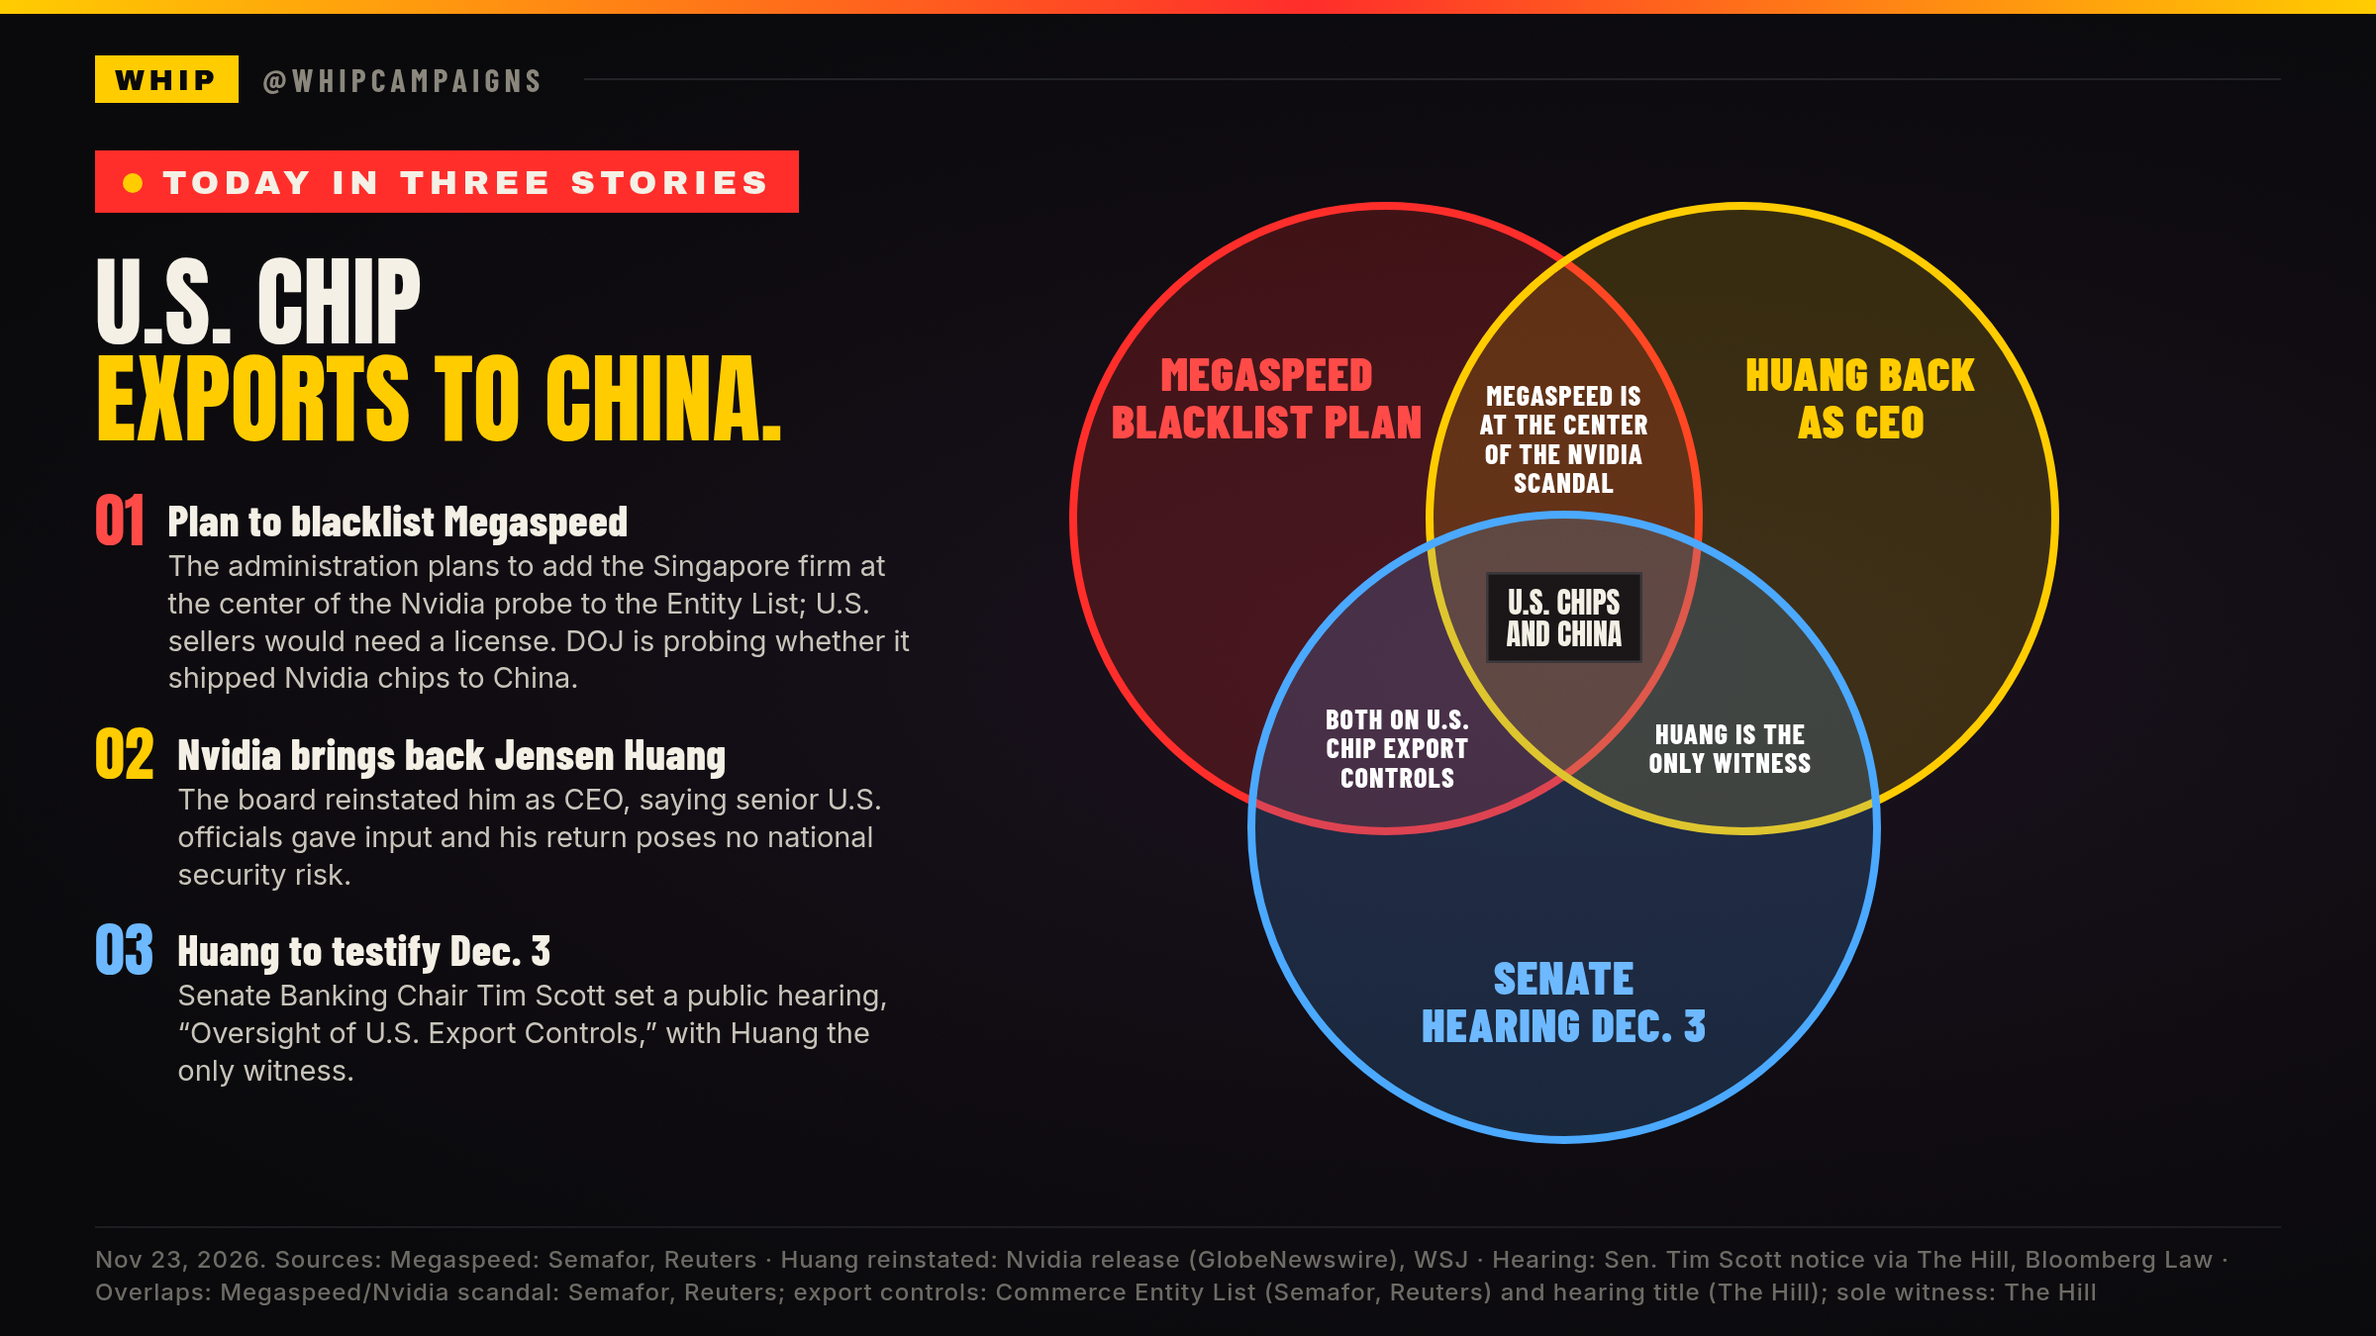
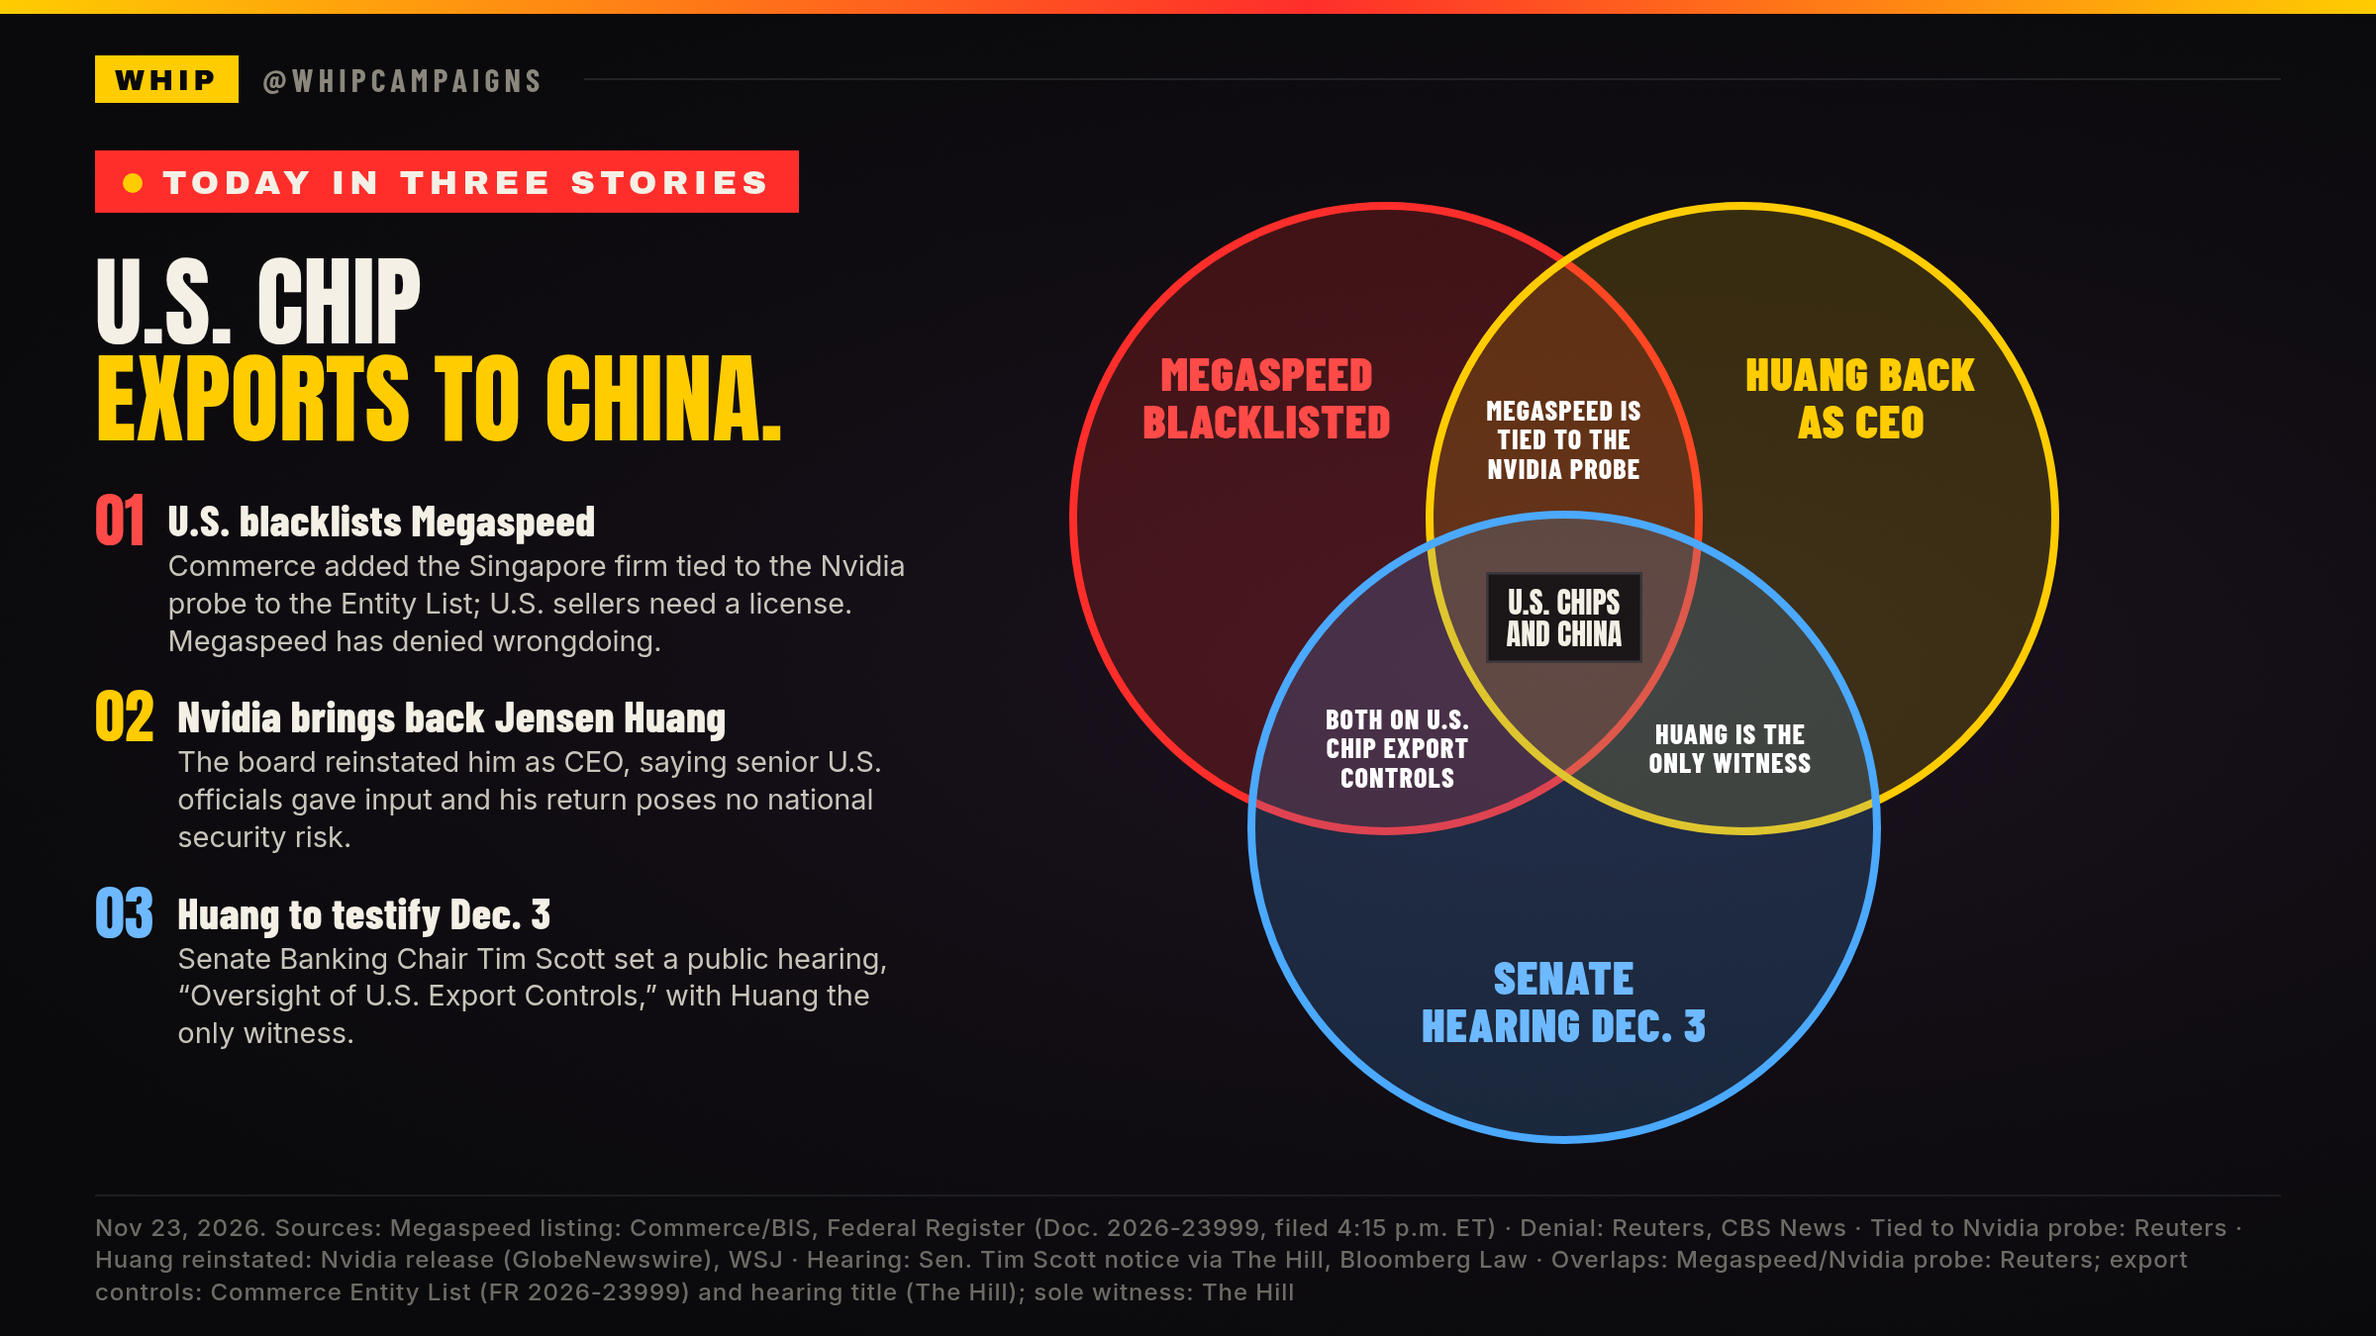
Update Nov 23 three-circle card and add Megaspeed listed follow-up
Commerce/BIS Federal Register filing 2026-23999 confirms Megaspeed was added to the Entity List this afternoon. Rebuild the daily venn in past tense and add a follow-up UPDATE card.

diff --git a/breaking/2026-11-23-megaspeed-listed/make_card.py b/breaking/2026-11-23-megaspeed-listed/make_card.py
@@ -1,0 +1,80 @@
+#!/usr/bin/env python3
+"""UPDATE card: Commerce added Megaspeed to the Entity List (Mon Nov 23, 2026).
+Primary source: BIS final rule, Federal Register public inspection Doc. 2026-23999, filed 4:15 p.m. ET.
+Denial: Reuters, CBS News. Illustration. No Whip scores. No spy allegations or Lutnick/Bessent."""
+import shutil, sys, subprocess
+from pathlib import Path
+sys.path.insert(0, "/home/box/whip/threads/2026-11-14-faa")
+from v4base import wrap
+OUT = Path(__file__).resolve().parent
+NAME = "update-megaspeed-listed"
+FOLDER = "breaking/2026-11-23-megaspeed-listed"
+W = 568
+RED, YEL, BLU, INK, PAPER, MUTE = "#ff2d2a", "#ffcc00", "#3d8bff", "#09090b", "#f4f0e6", "#8a867c"
+parts = []
+parts.append(f'<text x="0" y="22" font-family="Archivo Black" font-size="14" letter-spacing="1.6" fill="{PAPER}">THE NVIDIA PROBE · ONE DAY</text>')
+parts.append(f'<text x="0" y="44" font-family="Inter" font-size="13" font-weight="600" fill="{MUTE}">Per Commerce/BIS, Federal Register, Reuters, Nvidia and Sen. Tim Scott</text>')
+rows = [("NOV 23", "Huang reinstated", "Unanimous board vote (Nvidia)", BLU),
+        ("NOV 23", "Megaspeed blacklisted", "Commerce added it to the Entity List (FR)", RED),
+        ("NOW", "License rule", "All EAR items; presumption of denial (BIS)", MUTE),
+        ("DEC 3", "Public hearing", "Senate Banking, on chip export controls (Scott)", YEL)]
+y = 62
+for d, lab, note, col in rows:
+    parts.append(f'<rect x="0" y="{y}" width="{W}" height="54" rx="4" fill="#15151b" stroke="{col}" stroke-width="{3 if col==YEL else 1.5}"/>')
+    parts.append(f'<text x="18" y="{y+38}" font-family="Anton" font-size="26" fill="{col}">{d}</text>')
+    parts.append(f'<text x="130" y="{y+23}" font-family="Archivo Black" font-size="15" letter-spacing="1.2" fill="{PAPER}">{lab.upper()}</text>')
+    parts.append(f'<text x="130" y="{y+43}" font-family="Inter" font-size="13.5" font-weight="600" fill="#c8c4ba">{note}</text>')
+    y += 62
+H = y
+graphic = f'<svg xmlns="http://www.w3.org/2000/svg" width="{W}" height="{H}" viewBox="0 0 {W} {H}">{"".join(parts)}</svg>'
+html = wrap(f"""
+<div class="footer"><span>Sources: Commerce/BIS, Federal Register (Doc. 2026-23999, filed 4:15 p.m. ET Nov. 23); Reuters; CBS News; Nvidia; Sen. Tim Scott. Whip illustration.</span><span>Whip illustration</span></div>
+<div class="tag"><span class="dot"></span>UPDATE &middot; AI CHIPS</div>
+<div class="left">
+  <div class="h1">MEGASPEED<br><span class="y">BLACKLISTED</span></div>
+  <div class="h2">COMMERCE ADDS THE FIRM<br>TIED TO THE NVIDIA PROBE</div>
+  <div class="att">A Federal Register filing posted this afternoon adds the Singapore firm to the Entity List. Megaspeed has denied wrongdoing.</div>
+</div>
+<div class="panel">
+  <div class="ph">THE TIMELINE &middot; WHIP ILLUSTRATION</div>
+  {graphic}
+</div>
+<div class="strip">
+  <div class="wt">WHAT THIS<br><span class="y">MEANS</span></div>
+  <div class="b"><div class="n">01</div><div><b>The rule:</b> U.S. firms need a license to sell it any item subject to the EAR, under a presumption of denial.</div></div>
+  <div class="b"><div class="n">02</div><div><b>The denial:</b> Megaspeed has said it conducts lawful business. DOJ is probing chip shipments to China.</div></div>
+  <div class="b"><div class="n">03</div><div><b>Next:</b> Huang faces Senate Banking on export controls Dec. 3.</div></div>
+</div>
+""", """
+body{background:radial-gradient(ellipse at 70% 38%,#3a0d3f 0%,#200826 45%,#09090b 82%)}
+.tag{position:absolute;top:76px;left:48px;display:flex;align-items:center;gap:10px;background:#ff2d2a;color:#f4f0e6;font-family:'Archivo Black',sans-serif;font-size:18px;letter-spacing:.18em;padding:7px 14px 6px;z-index:5}
+.dot{width:10px;height:10px;border-radius:50%;background:#ffcc00;display:inline-block}
+.left{position:absolute;left:48px;top:122px;width:500px;z-index:5}
+.h1{font-family:'Anton',sans-serif;font-size:64px;line-height:.98;color:#f4f0e6;letter-spacing:.01em}
+.h2{font-family:'Anton',sans-serif;font-size:28px;line-height:1.02;color:#f4f0e6;margin-top:8px}
+.att{font-family:'Inter',sans-serif;font-size:15px;line-height:1.35;color:#c8c4ba;margin-top:10px;width:470px}
+.y{color:#ffcc00}
+.panel{position:absolute;right:48px;top:112px;width:600px;z-index:5;background:rgba(10,14,18,.88);border-top:4px solid #ffcc00;padding:12px 16px 10px}
+.ph{font-family:'Archivo Black',sans-serif;font-size:13px;letter-spacing:.16em;color:#8a867c;margin-bottom:8px}
+.panel svg{display:block}
+.strip{position:absolute;left:48px;right:48px;top:470px;height:150px;z-index:5;background:rgba(14,14,18,.94);border-top:4px solid #ffcc00;display:grid;grid-template-columns:150px 1fr 1fr 1fr;gap:20px;padding:16px 22px}
+.wt{font-family:'Anton',sans-serif;font-size:40px;line-height:.92;color:#f4f0e6}
+.b{display:flex;gap:10px;font-weight:600;font-size:17px;line-height:1.16;color:#c8c4ba}
+.b b{color:#ffcc00;font-weight:800}
+.n{font-family:'Anton',sans-serif;font-size:30px;line-height:.9;color:#ff2d2a}
+""")
+def render(html):
+    out_html = OUT / f"{NAME}.html"; out_html.write_text(html)
+    png = OUT / "card.png"
+    r = subprocess.run(["google-chrome", "--headless=new", "--no-sandbox", "--disable-gpu", "--hide-scrollbars",
+                        "--force-device-scale-factor=2", "--window-size=1200,675", f"--screenshot={png}",
+                        "file://" + str(out_html)], capture_output=True, text=True)
+    if r.returncode != 0: sys.exit("render failed: " + r.stderr[-800:])
+    out_html.unlink()
+    return png
+src = render(html)
+print(src, src.stat().st_size)
+dest = Path(f"/workspace/whip-cards/{FOLDER}")
+dest.mkdir(parents=True, exist_ok=True)
+for f in (src, Path(__file__).resolve(), OUT / "tweet.md"):
+    if f.exists(): shutil.copy(f, dest / f.name); print("copied", dest / f.name)

diff --git a/2026-11-23-daily-venn/make_card.py b/2026-11-23-daily-venn/make_card.py
@@ -1,0 +1,64 @@
+#!/usr/bin/env python3
+"""Daily three-circle card, Nov 23, 2026. Megaspeed listing now confirmed via FR 2026-23999."""
+import shutil, sys, subprocess
+from pathlib import Path
+sys.path.insert(0, "/home/box/whip/threads/2026-11-14-faa")
+from v4base import wrap, render, HERE
+R = 158
+A = (700, 262); B = (880, 262); C = (790, 418)
+svg = f"""
+<svg class="venn" width="1200" height="675" viewBox="0 0 1200 675">
+ <circle cx="{A[0]}" cy="{A[1]}" r="{R}" fill="#ff2d2a" fill-opacity=".20" stroke="#ff2d2a" stroke-width="4"/>
+ <circle cx="{B[0]}" cy="{B[1]}" r="{R}" fill="#ffcc00" fill-opacity=".16" stroke="#ffcc00" stroke-width="4"/>
+ <circle cx="{C[0]}" cy="{C[1]}" r="{R}" fill="#4aa8ff" fill-opacity=".18" stroke="#4aa8ff" stroke-width="4"/>
+</svg>"""
+html = wrap(svg + """
+<div class="tag"><span class="dot"></span>TODAY IN THREE STORIES</div>
+<div class="left">
+  <div class="h1">U.S. CHIP<br><span class="y">EXPORTS TO CHINA.</span></div>
+  <div class="it"><div class="n r">01</div><div><b>U.S. blacklists Megaspeed</b><br>Commerce added the Singapore firm tied to the Nvidia probe to the Entity List; U.S. sellers need a license. Megaspeed has denied wrongdoing.</div></div>
+  <div class="it"><div class="n y">02</div><div><b>Nvidia brings back Jensen Huang</b><br>The board reinstated him as CEO, saying senior U.S. officials gave input and his return poses no national security risk.</div></div>
+  <div class="it"><div class="n bl">03</div><div><b>Huang to testify Dec. 3</b><br>Senate Banking Chair Tim Scott set a public hearing, &ldquo;Oversight of U.S. Export Controls,&rdquo; with Huang the only witness.</div></div>
+</div>
+<div class="lab la" style="left:640px;top:200px"><span class="r">MEGASPEED<br>BLACKLISTED</span></div>
+<div class="lab la" style="left:940px;top:200px"><span class="y">HUANG BACK<br>AS CEO</span></div>
+<div class="lab la" style="left:790px;top:505px"><span class="bl">SENATE<br>HEARING DEC. 3</span></div>
+<div class="lab ov" style="left:790px;top:222px">MEGASPEED IS<br>TIED TO THE<br>NVIDIA PROBE</div>
+<div class="lab ov" style="left:706px;top:378px">BOTH ON U.S.<br>CHIP EXPORT<br>CONTROLS</div>
+<div class="lab ov" style="left:874px;top:378px">HUANG IS THE<br>ONLY WITNESS</div>
+<div class="lab ctr" style="left:790px;top:312px">U.S. CHIPS<br>AND CHINA</div>
+<div class="footer"><span>Nov 23, 2026. Sources: Megaspeed listing: Commerce/BIS, Federal Register (Doc. 2026-23999, filed 4:15 p.m. ET) &middot; Denial: Reuters, CBS News &middot; Tied to Nvidia probe: Reuters &middot; Huang reinstated: Nvidia release (GlobeNewswire), WSJ &middot; Hearing: Sen. Tim Scott notice via The Hill, Bloomberg Law &middot; Overlaps: Megaspeed/Nvidia probe: Reuters; export controls: Commerce Entity List (FR 2026-23999) and hearing title (The Hill); sole witness: The Hill</span></div>
+""", """
+body{background:radial-gradient(ellipse at 66% 50%,#1c1220 0%,#100c12 45%,#09090b 80%)}
+.venn{position:absolute;left:0;top:0;z-index:2}
+.tag{position:absolute;top:76px;left:48px;display:flex;align-items:center;gap:10px;background:#ff2d2a;color:#f4f0e6;font-family:'Archivo Black',sans-serif;font-size:17px;letter-spacing:.16em;padding:7px 14px 6px;z-index:5}
+.dot{width:10px;height:10px;border-radius:50%;background:#ffcc00;display:inline-block}
+.left{position:absolute;left:48px;top:128px;width:450px;z-index:5}
+.h1{font-family:'Anton',sans-serif;font-size:50px;line-height:.98;color:#f4f0e6;margin-bottom:22px}
+.y{color:#ffcc00}.r{color:#ff4a47}.bl{color:#6cb8ff}
+.it{display:flex;gap:12px;margin-bottom:14px;font-family:'Inter',sans-serif;font-size:14.5px;line-height:1.3;color:#c8c4ba;width:420px}
+.it b{font-family:'Barlow Condensed',sans-serif;font-weight:800;font-size:22px;color:#f4f0e6;letter-spacing:.01em}
+.n{font-family:'Anton',sans-serif;font-size:30px;line-height:1}
+.lab{position:absolute;transform:translate(-50%,-50%);text-align:center;z-index:6}
+.la{font-family:'Barlow Condensed',sans-serif;font-weight:900;font-size:24px;line-height:1.0;letter-spacing:.02em}
+.ov{font-family:'Barlow Condensed',sans-serif;font-size:14px;font-weight:800;letter-spacing:.04em;color:#ffffff;line-height:1.05}
+.ctr{font-family:'Anton',sans-serif;font-size:15px;line-height:1.05;color:#f4f0e6;background:rgba(9,9,11,.8);padding:6px 9px;border:1px solid #3a3a40}
+.footer span{line-height:1.35}.footer{font-size:12px}
+""")
+out_html = HERE/"cards"/"html"/"daily-venn-2026-11-23.html"; out_html.parent.mkdir(parents=True, exist_ok=True)
+out_html.write_text(html)
+png = HERE/"cards"/"daily-venn-2026-11-23.png"
+r = subprocess.run(["google-chrome","--headless=new","--no-sandbox","--disable-gpu","--hide-scrollbars","--force-device-scale-factor=2","--window-size=1200,675",f"--screenshot={png}","file://"+str(out_html)],capture_output=True,text=True)
+print("chrome rc", r.returncode)
+if r.stderr:
+    print("stderr", r.stderr[-500:])
+for dest in [Path("/home/box/whip/daily-venn/2026-11-23/card.png"), Path("/workspace/whip-cards/2026-11-23-daily-venn/card.png")]:
+    dest.parent.mkdir(parents=True, exist_ok=True); shutil.copy(png, dest); print("copied", dest)
+# also copy script and post into the repo folder
+repo = Path("/workspace/whip-cards/2026-11-23-daily-venn")
+src = Path("/home/box/whip/daily-venn/2026-11-23")
+for name in ("make_card.py", "post.txt", "NOTES.md"):
+    f = src / name
+    if f.exists():
+        shutil.copy(f, repo / name)
+        print("copied", repo / name)

diff --git a/2026-11-23-daily-venn/NOTES.md b/2026-11-23-daily-venn/NOTES.md
@@ -1,0 +1,12 @@
+Card: (SHA filled after push)
+Draft post in post.txt. Not posted or scheduled.
+Thread: U.S. chips and China. Circles: Megaspeed blacklisted / Huang back as CEO / Senate hearing Dec 3.
+Primary listing source: BIS final rule, Federal Register public inspection Doc. 2026-23999, "Additions to the Entity List," filed 11/23/2026 4:15 p.m. ET, scheduled publication 11/25/2026, effective on the public-inspection date. PDF: https://public-inspection.federalregister.gov/2026-23999.pdf
+PI page: https://www.federalregister.gov/public-inspection/2026-23999/additions-to-the-entity-list
+Adds 7 entities, including Megaspeed International Pte. Ltd. (Singapore) and affiliates in Malaysia, Singapore, and Thailand. License required for all items subject to the EAR; presumption of denial.
+Denial: Reuters (lawful business); CBS News Nov 15 (explicitly "denied any wrongdoing," "conducts legitimate and lawful business"): https://www.cbsnews.com/news/nvidia-alice-huang-jensen-ai-china-singapore-megaspeed/
+Tied to Nvidia probe: Reuters via Investing.com, updated 4:48 p.m. ET Nov 23: https://www.investing.com/news/stock-market-news/us-to-blacklist-megaspeed-chip-firm-linked-to-nvidia-scandal-source-says-5046337
+Semafor update 5:08 p.m. ET, citing the FR filing: https://www.semafor.com/article/11/23/2026/commerce-to-add-megaspeed-to-trade-blacklist
+Huang reinstated: Nvidia release https://www.globenewswire.com/news-release/2026/11/23/3408381/0/en/nvidia-board-reinstates-jensen-huang-as-president-ceo-and-board-director.html ; WSJ https://x.com/WSJ/status/2124867726912934008
+Hearing: The Hill https://thehill.com/homenews/senate/6238064-nvidia-ceo-ai-hearing-december/ ; Bloomberg Law https://news.bloomberglaw.com/artificial-intelligence/jensen-huang-will-testify-publicly-before-senators-next-week-1
+Attribution in post.txt changed from "Reuters reports" to "Commerce added" after the FR filing was read. No Whip scores. No stock moves.

diff --git a/breaking/2026-11-23-megaspeed-listed/tweet.md b/breaking/2026-11-23-megaspeed-listed/tweet.md
@@ -1,0 +1,15 @@
+# UPDATE: Commerce added Megaspeed to the Entity List (Nov 23, 2026)
+
+Draft (not posted). Target: Buffer quote of our 4:42 PM Megaspeed UPDATE https://x.com/whipcampaigns/status/2124981828498977092. Attach card.png. No hook.
+
+Text (len 229):
+
+UPDATE: Commerce added Megaspeed to the Entity List today, a Federal Register filing shows. U.S. firms need a license for all items subject to export rules, reviewed under a presumption of denial. Megaspeed has denied wrongdoing.
+
+Sources:
+- BIS final rule, Federal Register public inspection Doc. 2026-23999, filed 11/23/2026 4:15 p.m. ET, scheduled publication 11/25/2026, effective on the public-inspection date. PDF: https://public-inspection.federalregister.gov/2026-23999.pdf
+- PI page: https://www.federalregister.gov/public-inspection/2026-23999/additions-to-the-entity-list
+- Reuters via Investing.com, updated 4:48 p.m. ET: https://www.investing.com/news/stock-market-news/us-to-blacklist-megaspeed-chip-firm-linked-to-nvidia-scandal-source-says-5046337
+- Semafor update 5:08 p.m. ET, citing the filing: https://www.semafor.com/article/11/23/2026/commerce-to-add-megaspeed-to-trade-blacklist
+- Denial: CBS News, Nov 15 ("denied any wrongdoing"): https://www.cbsnews.com/news/nvidia-alice-huang-jensen-ai-china-singapore-megaspeed/
+- Reuters also: Megaspeed has said it conducted "lawful business."
